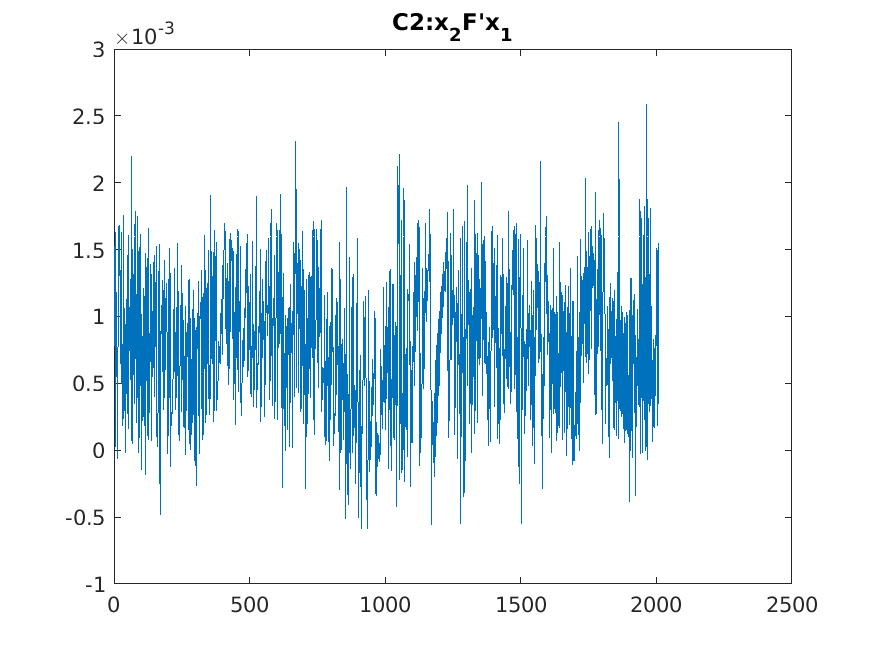
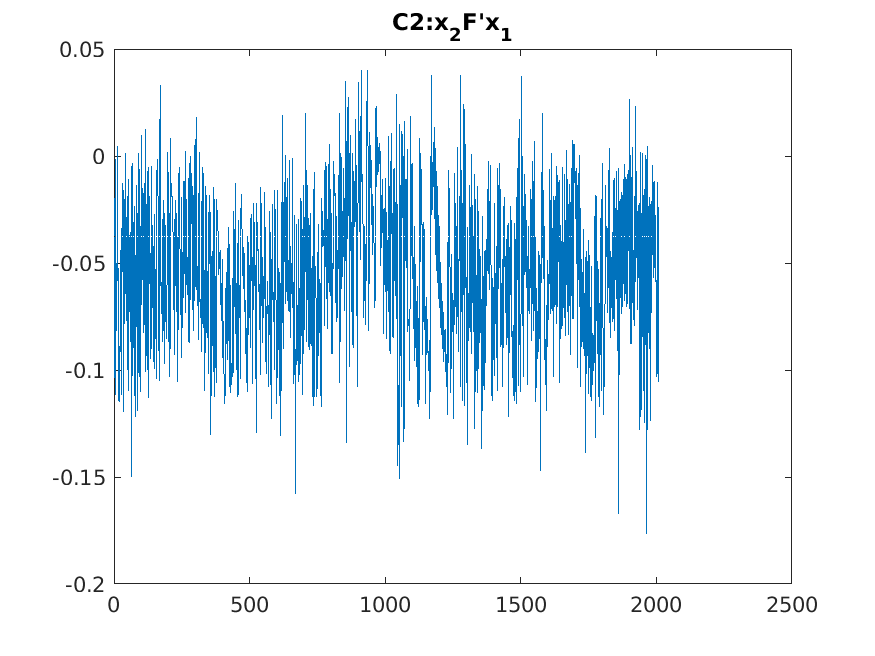
update A3

diff --git a/assignment/A3/run3.m b/assignment/A3/run3.m
@@ -23,26 +23,30 @@ P_2s = extract_P_from_E(bE_n);
 
 P_1 = [diag([1 1 1]) [0 0 0]']
 
-P_2 = P_2s{4};
-X = [];
-for i= 1: size(x_1_n,2)
-    X_i = triangulate_3D_point_DLT(x_1_n(:,i),x_2_n(:,i),P_1,P_2);
-    X = [X X_i];
+for Pi=1:size(P_2s,2)
+    P_2 = P_2s{Pi};
+    X = [];
+    for i= 1: size(x_1_n,2)
+        X_i = triangulate_3D_point_DLT(x_1_n(:,i),x_2_n(:,i),P_1,P_2);
+        X = [X X_i];
+    end
+    X=pflat(X);
+    plot3(X(1,:),X(2,:),X(3,:),'.' ,'color', 'g', 'MarkerSize',4);
+    hold on
+    plotcams({P_1});
+    plotcams({P_2});
+    hold off
+    axis equal
 end
-X=pflat(X);
-
-plot3(X(1,:),X(2,:),X(3,:),'.' ,'color', 'g', 'MarkerSize',4);
-hold on
-plotcams({P_1});
-plotcams({P_2});
-hold off
-axis equal
 
 
+P_2 = P_2s{4};
 P_2_dn= K*P_2;
 project_and_plot(P_2_dn,X,img_2);
 hold on
 plot(x{2}(1,1:end),x{2}(2,1:end), 'o', 'Color','b');
 hold off
+title("C3:project X to image");
+saveas(gcf,"c3_2.png");
 
 errors=eRMS(pflat(P_2_dn*X),x{2})

diff --git a/assignment/A3/run2.m b/assignment/A3/run2.m
@@ -49,7 +49,7 @@ saveas(gcf,"c2_1.png");
 
 % compute the un_normalized fundamental matrix F
 F = convert_E_to_F(bE_n,K,K);
-%F = N_2'*bE_n*N_1;
+F = F ./ F(3,3)
 plot(diag(x{2}'*F*x{1}));
 title("C2:x_{2}F'x_{1}");
 saveas(gcf,"c2_2.png");

diff --git a/assignment/A3/report.md b/assignment/A3/report.md
@@ -275,6 +275,42 @@ Therefore the eigenvalues of $[t]_x^T[t]_x$ are the squared singular values.
 + (2)
 
 
+#### Computer exercise 2
+code file run2.m is for this exercise.
+ + (1) Essential matrix
+  ```matlab
+    bE_n =
+      0.0032    0.3619   -0.1357
+    -0.4507   -0.0282    0.8808
+      0.1701   -0.9176   -0.0004
+  ```
+ + (2) $\~x_2^TE\~x_1 = 0$
+
+  ![img](c2_1.png)
+
+ + (3) the fundamental matrix
+  ```matlab
+   F=
+     -0.0000   -0.0000    0.0066
+      0.0000    0.0000   -0.0303
+     -0.0082    0.0299    1.0000
+  ```
+
+  + (4) epiploar lines with points 
+  
+  ![img](./c2_3.png)
+
+  + (5) mean distance 2.0838
+
+  + (6) histogram 
+  
+  The distribution of the histogram about distance in computer exercise 2 is more dispersed than that in computer exercise 1.
+  |computer exercise 2|computer exercise 1|
+  |-|-|
+  |![img](./c2_4.png)|![img](./c1_4.png)|
+
+   
+
 ####  Theoratical exercise 7
 + (1)
 
@@ -458,3 +494,25 @@ Thus $s = -1/\sqrt2$.
 Similar for $P_2=[UW^TV^T | -u_3]$, we can get $s=1/\sqrt2$.
 
 <!-- ? the first one and the forth one ? -->
+
+
+####  Computer exercise 3
+code file run3.m is for this exercise.
+
++ (1)
+The forth one in 4 solutions is that the points are in front of the cameras.
+
+|P2_1|P2_2|P2_3|P2_4|
+|-|-|-|-|
+|![img](./c3_p2s_1.png)|![img](./c3_p2s_2.png)|![img](./c3_p2s_3.png)|![img](./c3_p2s_4.png)|
+
++ (2) project X into image.
+
+error is: 1.1927  
+![img](./c3_2.png)
+
++ (3)
+
+The result appears quite reasonable, with the lines maintaining the expected parallel and vertical relationship.
+
+![img](./c3_p2s_4.png)
